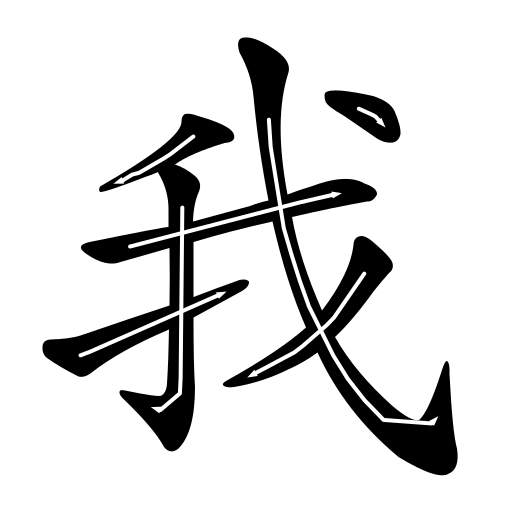
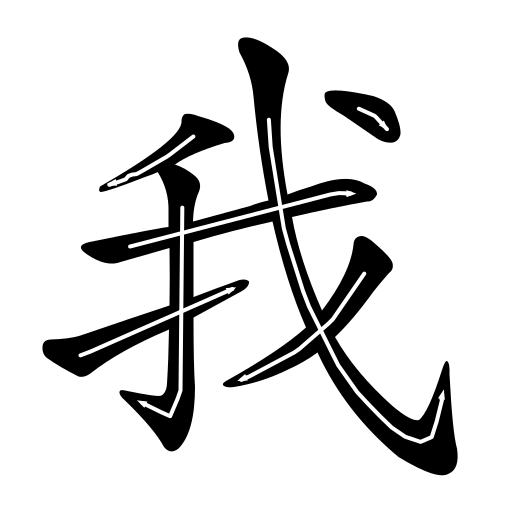
Extend arrow path to 95% to capture end curves and hooks
- Increased arrowTipPercent from 90% to 95% to follow stroke curves
- Reduced step size from 0.05 to 0.03 for smoother curve following
- Added intermediate point at 93% before arrowhead base
- Fixes stroke 5 which has a hook at the end that was being cut off

diff --git a/stroke_caps/generatePrintableSvg.js b/stroke_caps/generatePrintableSvg.js
@@ -77,7 +77,8 @@ function generatePrintableSvg(char, options = {}) {
     const [numX, numY] = numberPosition;
 
     // Arrow tip position (where arrowhead points to)
-    const arrowTipPercent = 0.90;
+    // Use 95% to capture curves/hooks at stroke ends
+    const arrowTipPercent = 0.95;
     const arrowTipPoint = interpolateMedianPoint(median, arrowTipPercent);
 
     // Calculate arrowhead direction from points just before the tip
@@ -101,11 +102,15 @@ function generatePrintableSvg(char, options = {}) {
     const arrowStartPoint = interpolateMedianPoint(median, arrowStartPercent);
     let linePath = `M ${arrowStartPoint[0]} ${arrowStartPoint[1]}`;
 
-    // Add intermediate points along the path up to near the arrowhead
-    for (let t = arrowStartPercent + 0.05; t <= arrowTipPercent - 0.10; t += 0.05) {
+    // Add intermediate points along the path - use finer steps near the end to capture curves
+    for (let t = arrowStartPercent + 0.05; t <= arrowTipPercent - 0.05; t += 0.03) {
       const pt = interpolateMedianPoint(median, t);
       linePath += ` L ${pt[0]} ${pt[1]}`;
     }
+
+    // Add final point just before arrowhead
+    const nearTipPoint = interpolateMedianPoint(median, arrowTipPercent - 0.02);
+    linePath += ` L ${nearTipPoint[0]} ${nearTipPoint[1]}`;
 
     // End the line exactly at the arrowhead base
     linePath += ` L ${baseX} ${baseY}`;
